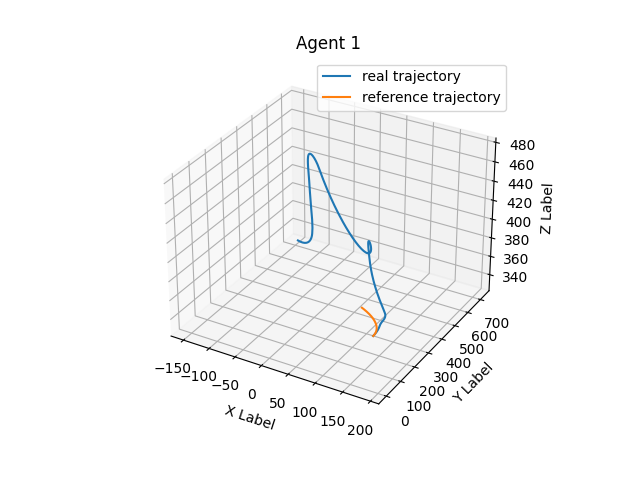
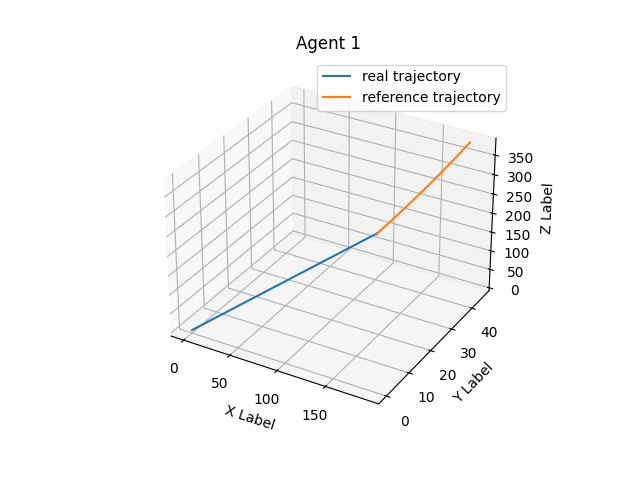
it worked for the circle

diff --git a/finite_mpc_embedding.py b/finite_mpc_embedding.py
@@ -17,7 +17,9 @@ import os
 from icecream import ic
 import csv
 from scipy.sparse import csc_matrix
-from scipy.optimize import minimize
+from cvxpy import psd_wrap
+from scipy.optimize import minimize, Bounds
+import cvxpy as cp
 from scipy.linalg import block_diag
 
 #Initiating constants##############################################
@@ -28,7 +30,7 @@ class MPC_fixed_wing():
         self.noise = noise
         self.save = save
         self.fixed_wing = FixedWing("/home/dimitria/fixed_wing/pyfly/pyfly/pyfly_config.json", "/home/dimitria/fixed_wing/pyfly/pyfly/x8_param.mat")
-        self.n = 9
+        self.n = 12
         self.m = 6
         self.qsi = np.zeros((self.n,1)) 
         self.n_agents = 4
@@ -73,13 +75,19 @@ class MPC_fixed_wing():
         self.va_r_body = np.zeros((3,self.N))
         # p = np.array([-5,-2.5, -1.1,-2.3,-0.5,-1.5,-2.2,-3.1,-2])
         # p = np.array([-5,-2.5, -10.1,-2.3,-0.5,-1.5,-2.2,-3.1,-2,-6.5,-3.4,-8])
-        self.Nh = 3
+        self.Nh = 10
         self.Q_v = 10**(3)*np.eye(3)
-        self.Q_r = 1e6*np.eye(3)
-        self.Q_phi =1e1*np.eye(3)
+        self.Q_r = 1e7*np.eye(3)
+        self.Q_phi =1e7*np.eye(3)
         self.Q_aug = 1e1*np.eye(3)
-        self.Q_f = 1e1
-        self.Q_w = 1e1
+        self.Q_f = 1e2
+        self.Q_w = 1e4
+        # self.Q_v = 10**(5)*np.eye(3)
+        # self.Q_r = 1e9*np.eye(3)
+        # self.Q_phi =1e2*np.eye(3)
+        # self.Q_aug = 1e1*np.eye(3)
+        # self.Q_f = 1e5
+        # self.Q_w = 10**(5)
         self.Q_i = np.eye(self.n)
         if self.n == 12:
             self.Q_i[0:12,0:12] = block_diag(self.Q_phi, self.Q_v, self.Q_r, self.Q_aug)
@@ -123,9 +131,11 @@ class MPC_fixed_wing():
             
     def references(self,i, ra_r, va_r, va_r_dot):
         self.ra_r[:,i] = ra_r
-        if i >=1:
-            self.va_r[:,i] = (self.ra_r[:,i]-self.ra_r[:,i-1])/self.T
-            self.va_r_dot[:,i] = (self.va_r[:,i]-self.va_r[:,i-1])/self.T
+        self.va_r[:,i] = va_r
+        self.va_r_dot[:,i] = va_r_dot
+        # if i >=1:
+        #     self.va_r[:,i] = (self.ra_r[:,i]-self.ra_r[:,i-1])/self.T
+        #     self.va_r_dot[:,i] = (self.va_r[:,i]-self.va_r[:,i-1])/self.T
         # else:
         #     self.va_r[:,i] = va_r
         #     self.va_r_dot[:,i] = va_r_dot
@@ -147,7 +157,7 @@ class MPC_fixed_wing():
         else:
             psi = np.arctan2(v_norm[1],v_norm[0])
             theta = -np.arcsin(self.va_r[2,i]/norm_v)
-        phi = np.arctan2(-norm_v**2*np.cos(theta),self.r*self.g)
+        phi = np.arctan2(norm_v**2*np.cos(theta),self.r*self.g)
 
 
         if i == 2:
@@ -216,7 +226,7 @@ class MPC_fixed_wing():
     def calc_A_and_B(self,i):
         self.A[:,:,i]   = np.zeros((self.n,self.n))
         self.B[:,:,i]   = np.zeros((self.n,self.m))
-        self.A[3:6,0:3,i]   = R3_so3(self.wr_r[:,i])@R3_so3(self.va_r[:,i])# - R3_so3(self.f_r[:,i])
+        self.A[3:6,0:3,i]   = R3_so3(self.wr_r[:,i])@R3_so3(self.va_r[:,i]) - R3_so3(self.f_r[:,i])/self.mb
         self.A[3:6,3:6,i]   = R3_so3(self.wr_r[:,i])- R3_so3(self.wr_r[:,i])@self.Car[:,:,i]
         self.A[6:9,3:6,i]   = np.eye(3) 
         self.A[6:9,6:9,i]   = -R3_so3(self.wr_r[:,i]) 
@@ -224,7 +234,7 @@ class MPC_fixed_wing():
         # self.B[5,0,i] = 1/self.mb 
         self.B[3:6, 0:3,i] = np.eye(3)/self.mb
         self.B[0:3, 3:6,i]  = np.eye(3)  
-        self.B[3:6, 3:6,i]  = - R3_so3(self.va_r[:,i])
+        self.B[3:6, 3:6,i]  = R3_so3(self.va_r[:,i])
         if self.n == 12:
             self.A[9:12,3:6,i]  = np.eye(3) 
             self.A[9:12,6:9,i]  = self.c1*np.eye(3) 
@@ -265,28 +275,58 @@ class MPC_fixed_wing():
         G = 2 * Bqp.T @ Q_hat @ Aqp_sparse @ self.d_Xi[:,i]
         # Define the quadratic objective function: 0.5 * U^T H U + G^T U
         # Define bounds for each control input
-        f_max = 50
-        U_min = np.array([-f_max, -f_max, -f_max, -np.pi, -np.pi, -np.pi])
-        U_min = np.tile(U_min, self.Nh)
-        U_max = np.array([f_max, f_max, f_max, np.pi, np.pi, np.pi])
-        U_max = np.tile(U_max, self.Nh)
-        bounds = [(U_min[i], U_max[i]) for i in range(len(U_min))]
-        constraints = [
-        {'type': 'ineq', 'fun': lambda U: U - U_min},  # U >= 0
-        {'type': 'ineq', 'fun': lambda U: U_max - U},  # U <= 10
-            ]
+        # U_min = np.array([-f_max, -f_max, -f_max, -np.pi, -np.pi, -np.pi])
+        # U_min = np.tile(U_min, self.Nh)
+        # U_max = np.array([f_max, f_max, f_max, np.pi, np.pi, np.pi])
+        # U_max = np.tile(U_max, self.Nh)
+            # bounds = [(U_min[i], U_max[i]) for i in range(len(U_min))]
+        f_max = 200
+        u_min_single = np.array([-f_max, -f_max, -f_max, -np.pi, -np.pi, -np.pi])
+        u_max_single = np.array([f_max, f_max, f_max, np.pi, np.pi, np.pi])
+        U_min = np.tile(u_min_single, self.Nh)
+        U_max = np.tile(u_max_single, self.Nh)
+        bounds = Bounds(U_min, U_max)
+        def grad(U):
+            return H @ U + G
         # Define the quadratic objective function: 0.5 * U^T H U + G^T U
+        n = H.shape[0]
+        U = cp.Variable(n)
+        # constraints = [
+        #     U >= U_min,
+        #     U <= U_max
+
+        # ]
+        # constraints = [
+        # {'type': 'ineq', 'fun': lambda U: U - U_min},  # U >= 0
+        # {'type': 'ineq', 'fun': lambda U: U_max - U},  # U <= 10
+        #     ]
+
         def objective(U):
             return 0.5 * U.T @ H_sparse @ U + G.T @ U
-        U0 = np.zeros(H.shape[0])
-
-        res = minimize(objective, U0, method='trust-constr', constraints=[],
-               options={'gtol': 1e-4, 'xtol': 1e-4, 'maxiter': 200, 'disp': False})
-        # res =minimize(objective, U0, method='SLSQP', bounds=bounds, options={'disp': False, 'maxiter': 200})
+        # H += 1e-6 * np.eye(H.shape[0])
+        # objective = cp.Minimize(0.5 * cp.quad_form(U, psd_wrap(H)) + G.T @ U)
+        # prob = cp.Problem(objective, constraints)
+        U0 = np.ones(H.shape[0])
+        def hess(U):
+            return np.zeros((len(U), len(U)))
+        # res = minimize(objective, U0,hess=hess, method='trust-constr', constraints=constraints,
+        #        options={'gtol': 1e-4, 'xtol': 1e-4, 'maxiter': 200, 'disp': False})
+        # res = minimize(
+        #     fun=objective,
+        #     x0=U0,
+        #     jac=grad,
+        #     method='trust-constr',
+        #     bounds=bounds,
+        #     options={'gtol': 1e-4, 'xtol': 1e-4, 'maxiter': 200, 'disp': False}
+        # )
+        res =minimize(objective, U0, method='SLSQP', bounds=bounds, options={'disp': False, 'maxiter': 200, 'ftol': 1e-4})
         U_h = res.x
+        # prob.solve(solver=cp.ECOS, abstol=1e-5, reltol=1e-5, max_iters=3000, verbose=False)
+        # U_h = U.value
 
         # Extract first 4 elements for dU
         dU = U_h[:self.m]
+        # ic(dU)
 
         # dU = U0[:self.m]
 
@@ -301,11 +341,11 @@ class MPC_fixed_wing():
 
         # va_body = self.Car[:,:,i].T@self.va_r[:,i]
 
-        self.fixed_wing.x[3:6] = self.va_r[:,i]
+        self.fixed_wing.x[3:6] = self.Car[:,:,i].T@self.va_r[:,i]
         self.fixed_wing.R = self.Car[:,:,i]
         self.Cab[:,:,i] = self.fixed_wing.R
         self.dC[:,:,i] = self.Cab[:,:,i].T@self.Car[:,:,i]
-        self.d_v = self.Cab[:,:,i].T@(self.va_r[:,i] - self.X[3:6,i]) 
+        self.d_v = self.Cab[:,:,i].T@(self.va_r[:,i] - self.Car[:,:,i]@self.X[3:6,i]) 
         self.d_r = self.Cab[:,:,i].T@(self.ra_r[:,i] - self.X[6:9,i]) 
         self.d_Xi[0:9,i] = dX_to_dXi(self.dC[:,:,i],self.d_v,self.d_r)
         if self.n == 12: 
@@ -317,7 +357,7 @@ class MPC_fixed_wing():
         # self.references(i,ra_r, va_r, va_r_dot)
         
         # self.calc_K_pid(i)
-
+        # self.fixed_wing.x[3:6] = self.Car[:,:,i].T@self.va_r[:,i]
         self.dC[:,:,i] = self.Cab[:,:,i].T@self.Car[:,:,i]
         # self.dC[:,:,i+1] = self.Cab[:,:,i+1].T@self.Car[:,:,i+1]
         self.d_v = self.Cab[:,:,i].T@(self.va_r[:,i] - self.X[3:6,i]) 
@@ -336,6 +376,7 @@ class MPC_fixed_wing():
         # self.f_min, self.tau_min = self.fixed_wing._forces_min(self.Car[:,:,i])
         # self.f_max, self.tau_max = self.fixed_wing._forces_max(self.Car[:,:,i])
         self.f[:,i] = self.dC[:,:,i]@self.f_r[:,i] - self.dU[0:3,i]
+        # self.f[:,i] = self.f_r[:,i] - self.dU[0:3,i]
         self.f_r_body[:,i] = self.dC[:,:,i]@self.f_r[:,i]
         
         self.wb_b_cont[:,i] = self.dC[:,:,i]@self.wr_r[:,i] - self.dU[3:6,i]
@@ -362,7 +403,7 @@ class MPC_fixed_wing():
         
         self.X[0:3,i+1] = x[0:3]
         self.X[6:9,i+1] = x[6:9]
-        self.X[3:6,i+1] = x[3:6]
+        self.X[3:6,i+1] = self.Cab[:,:,i+1]@x[3:6]
 
         #printing the next desired values           
 
@@ -372,8 +413,8 @@ class MPC_fixed_wing():
     def plot_3D(self):
         fig = plt.figure()
         ax = fig.add_subplot(111, projection='3d')
-        ax.plot(self.X[6,:-self.Nh],self.X[7,:-self.Nh],self.X[8,:-self.Nh],label = "real trajectory")
-        ax.plot(self.ra_r[0,:-self.Nh],self.ra_r[1,:-self.Nh],self.ra_r[2,:-self.Nh],label = "reference trajectory")
+        ax.plot(self.X[6,:-self.Nh],self.X[7,:-self.Nh],self.X[8,:-self.Nh],label = "real traj")
+        ax.plot(self.ra_r[0,:-self.Nh],self.ra_r[1,:-self.Nh],self.ra_r[2,:-self.Nh],label = "ref. traj")
         ax.set_xlabel('X Label')
         ax.set_ylabel('Y Label')
         ax.set_zlabel('Z Label')
@@ -386,7 +427,7 @@ class MPC_fixed_wing():
         # ax.set_xlim(190,200)
         ax.legend()
         if self.save:
-            plt.savefig(f"3D_plot_{self.id}.png")
+            plt.savefig(f"3D_plot_{self.id}_fixed_wing.png")
         # plt.show()
             #would f_T be the same as f_T_r depending on what attitude I use?
     def plot_erros(self):

diff --git a/fixed_wing_swarm.py b/fixed_wing_swarm.py
@@ -11,11 +11,11 @@ import matplotlib as mpl
 
 
 
-r = 190
-T_p = 40
+r = 10
+T_p = 10
 phi_dot = 2*np.pi/T_p
 ic(phi_dot)
-t_max = 5
+t_max = 3
 
 t_min = 0
 k_phi = 1
@@ -40,15 +40,16 @@ for i in range(n_agents):
                               r * np.sin(i * 2 * np.pi / n_agents + offset), 
                               2 * r])
 
-
+phi = np.zeros(n_agents)
 for j in range(3):
-    _,target_r, target_v, target_a, _, _ = embedding.targets(target_r, target_v, False)
+
+    phi,target_r, target_v,target_a, _, _ = embedding.targets(target_r, target_v, phi, False)
 
 for i in range(n_agents):
     controllers[i].references(0,target_r[:,i], target_v[:,i], target_a[:,i])
     controllers[i].set_initial_conditions(0)
 
-phi,target_r, target_v, target_a, phi_diff_new, _ = embedding.targets(target_r, target_v,False)
+phi,target_r, target_v, target_a, phi_diff_new, _ = embedding.targets(target_r,target_v,phi,False)
 phi_diff[:,0] = phi_diff_new
 
 for i in range(n_agents):
@@ -61,9 +62,10 @@ vel_real = target_v
 # controller.plot_references()
 # plt.show()
 for i in range(2,N-Nh):
-    _,target_r_new, target_v_new, target_a_new, phi_diff_new, _ = embedding.targets(pos_real,vel_real,True)
+    # ic(i)
+    # phi,target_r_new, target_v_new, target_a_new, phi_diff_new, _ = embedding.targets(pos_real,vel_real, phi, True)
     for j in range(i,Nh+i):
-        _,target_r_new, target_v_new, target_a_new, phi_diff_new, _ = embedding.targets(pos_real,vel_real,True)
+        phi,target_r_new, target_v_new, target_a_new, phi_diff_new, _ = embedding.targets(pos_real,vel_real, phi, True)
         if j == i:
             target_r = target_r_new
             target_v = target_v_new
@@ -76,15 +78,15 @@ for i in range(2,N-Nh):
             controllers[k].calc_A_and_B(j)
     # np.clip(target_a, -10, 10)
     # np.clip(target_v, -40, 40)
-
-    for k in range(n_agents):
-        if i == 2:
-            controllers[k].set_initial_conditions(2)
+    for l in range(1):
+        for k in range(n_agents):
+            if i ==2:
+                controllers[k].set_initial_conditions(2)
         # ic(controllers[k].va_r_dot_body[:,i], controllers[k].wr_r[:,i],controllers[k].va_r_body[:,i],controllers[k].f_r[:,i],controllers[k].tau_r[:,i], controllers[k].d_wr_r[:,i])
-        controllers[k].control(i, target_r[:,k], target_v[:,k], target_a[:,k])
+            controllers[k].control(i, target_r[:,k], target_v[:,k], target_a[:,k])
     pos_real = target_r#controllers[k].X[6:9,i].reshape(-1,1)#
-    vel_real = controllers[k].X[3:6,i].reshape(-1,1)
-    # vel_real = target_v
+    # vel_real = controllers[k].X[3:6,i].reshape(-1,1)
+    vel_real = target_v
 
 for i in range(n_agents):
     controllers[i].plot_angles()

diff --git a/embedding_SO3_sim.py b/embedding_SO3_sim.py
@@ -36,7 +36,7 @@ class Embedding():
         self.z = np.zeros(self.n)
 
        
-    def targets(self, agent_r, agent_v, correct):
+    def targets(self, agent_r, agent_v, phi_prev,correct):
         target_r = np.zeros((3, self.n))
         target_v = np.zeros((3, self.n))
         target_a = np.zeros((3, self.n))
@@ -61,6 +61,11 @@ class Embedding():
 
 
             pos = np.array([agent_r[0, i] , agent_r[1, i] , agent_r[2, i]-self.z[i]])
+            phi_i = phi_prev[i]
+            phi_dot_x = self.calc_wx(phi_i)#*(phi_d-self.phi_des[i])
+            phi_dot_y = self.calc_wy(phi_i) #phi_i-phi_prev[i]*
+            v_d_hat_x_y = np.array([phi_dot_x, phi_dot_y, 0])
+            self.Rot_des[:,:,i] = expm(R3_so3(v_d_hat_x_y))
 
             pos_rot = self.Rot_des[:,:,i].T@pos.T
             phi, _ = self.cart2pol(pos)
@@ -151,7 +156,7 @@ class Embedding():
                 k += 1
         
         
-        return  self.phi_cur,target_r, target_v, target_a, phi_diff, distances
+        return  self.phi_des,target_r, target_v, target_a, phi_diff, distances
     
 
     def calc_wx(self,phi):

diff --git a/fixed_wing.py b/fixed_wing.py
@@ -98,7 +98,7 @@ class FixedWing():
 
     def _f(self,t,x, inputs):
         w = x[0:3]
-        v_b = self.R.T@x[3:6]
+        v_b = x[3:6]
         f = inputs[0:3]
         tau = inputs[3:6]
         dv_dt = self._v_dot(v_b, w, f)
